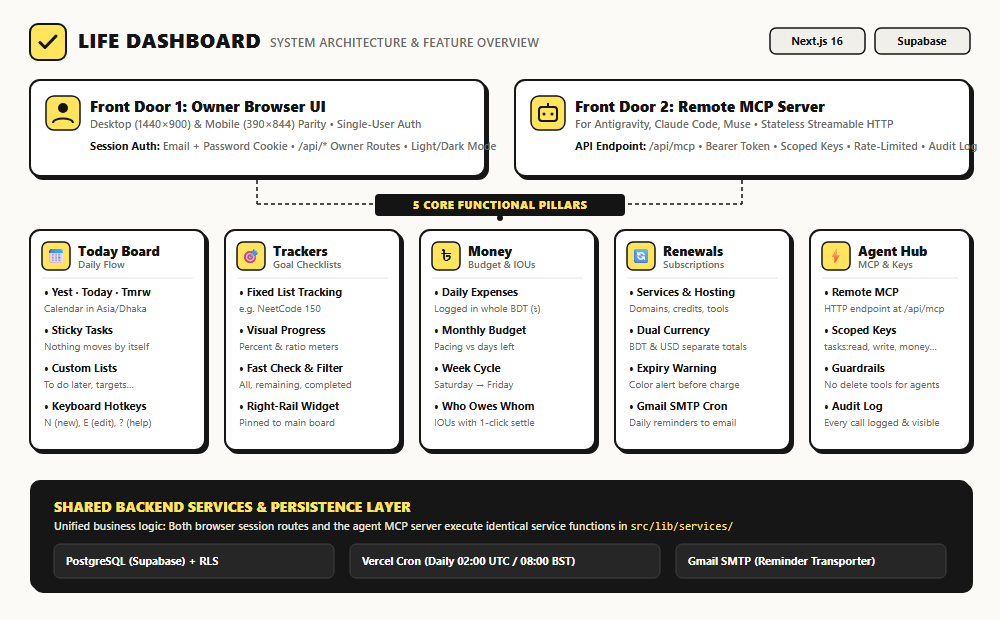
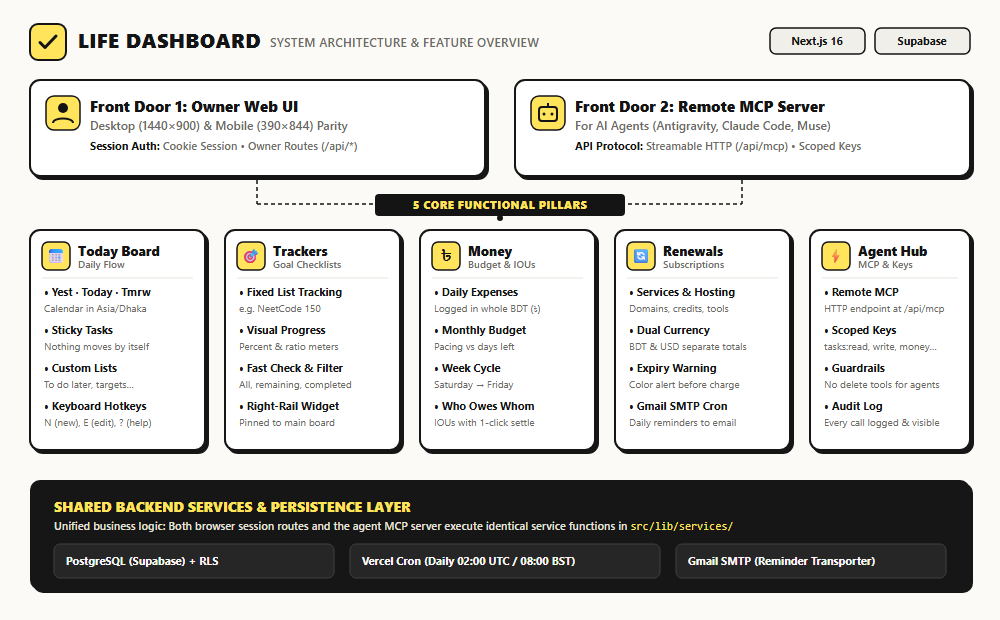
docs: rewrite README in first-person voice, remove mermaid diagram, fix SVG text overflow

Changed region(s): [[0.093, 0.1532, 0.496, 0.2452], [0.558, 0.1839, 0.992, 0.2452]]

diff --git a/README.md b/README.md
@@ -3,7 +3,7 @@
     <img src="public/icon-192.png" width="80" height="80" alt="Life Dashboard Logo" style="border-radius: 18px;" />
   </a>
   <h1>Life Dashboard</h1>
-  <p><strong>A private, single-user command center for daily tasks, trackers, small debts, and renewals — built for Muhammad Rony and his AI agents.</strong></p>
+  <p><strong>My private command center for daily tasks, trackers, small debts, and renewals — built for me and my AI agents.</strong></p>
   <p>
     <a href="https://life.rhrony05.me"><strong>🌐 life.rhrony05.me</strong></a>
     &nbsp;•&nbsp;
@@ -29,103 +29,73 @@
   <img src="docs/architecture-overview.svg" alt="Life Dashboard Architecture & Features Overview" width="100%" />
 </div>
 
-### System Flow Diagram
+---
 
-```mermaid
-flowchart TD
-  classDef userNode fill:#FFE45C,stroke:#141414,stroke-width:2px,color:#141414;
-  classDef agentNode fill:#FFE45C,stroke:#141414,stroke-width:2px,color:#141414;
-  classDef appNode fill:#FFFFFF,stroke:#141414,stroke-width:2px,color:#141414;
-  classDef dbNode fill:#141414,stroke:#141414,stroke-width:2px,color:#FBFAF6;
+## Why I Built This
 
-  User["👤 Muhammad Rony (Browser)"]:::userNode
-  Agent["🤖 AI Agents (Antigravity / Claude / Muse)"]:::agentNode
+I am currently in my final year of university, studying computer science, picking up freelance client projects, and coding almost daily with autonomous AI agents. 
 
-  subgraph FrontDoors ["Two Front Doors"]
-    UI["Owner Web App\nDesktop 1440×900 · Mobile 390×844\nCookie Session Auth (/api/*)"]:::appNode
-    MCP["Remote MCP Server\nStateless Streamable HTTP (/api/mcp)\nBearer Token · Scoped · Rate Limited"]:::appNode
-  end
+Before building **Life Dashboard**, my daily life was basically running on pure adrenaline and chaos:
+- **My daily tasks lived purely in my head:** I would tell myself *"I'll definitely remember to submit that lab report and reply to that client by 5 PM"*, only to experience a full-blown panic attack at 11:58 PM.
+- **My small debts lived in messy phone notes:** Whenever my friends and I had lunch, small borrowings and lendings (*"who owes whom"*) ended up scattered across phone notes and random WhatsApp messages. Half the time, I forgot who owed me money or felt awkward calculating it.
+- **My renewal dates lived nowhere at all:** Domains, cloud servers, software subscriptions, and student trial credits would expire silently — or worse, suddenly hit my credit card with surprise renewal charges because I forgot to cancel a trial.
+- **My AI pair-programmers were working in the dark:** I collaborate daily with autonomous coding agents (Claude Code, Antigravity, Muse). Yet none of them had any idea what I was actually supposed to work on today. I was spending half my time acting as their unpaid human secretary, manually copy-pasting tasks between chats.
 
-  subgraph CoreLogic ["Shared Service Layer (src/lib/services/)"]
-    TasksSvc["Board & Tasks\nYesterday · Today · Tomorrow · Lists"]:::appNode
-    TrackersSvc["Trackers\nChecklists · NeetCode 150 · Progress"]:::appNode
-    MoneySvc["Money\nDaily Budget · Saturday→Friday · IOUs"]:::appNode
-    RenewalsSvc["Renewals\nBDT / USD · Expiry Alerts · Gmail Cron"]:::appNode
-    KeysSvc["API Keys & Audit\nHashed Keys · Scopes · Audit Log"]:::appNode
-  end
+> **The realization:**  
+> My brain simply doesn't have enough RAM to remember Dijkstra's algorithm, keep track of who owes me 200 taka for campus biryani, **and** remember which free trial is going to charge my card tomorrow morning.  
+> 
+> If AI agents are supposedly going to take over software engineering anyway, the very least they can do right now is help me do my chores and keep my day organized.
 
-  subgraph Persistence ["Persistence & External Services"]
-    DB[("Supabase PostgreSQL\nRow-Level Security (RLS)")]:::dbNode
-    Cron["Vercel Cron (Daily 02:00 UTC)"]:::appNode
-    Gmail["Gmail SMTP (Email Alerts)"]:::appNode
-  end
-
-  User --> UI
-  Agent --> MCP
-  UI --> TasksSvc & TrackersSvc & MoneySvc & RenewalsSvc & KeysSvc
-  MCP --> TasksSvc & TrackersSvc & MoneySvc & RenewalsSvc & KeysSvc
-  TasksSvc & TrackersSvc & MoneySvc & RenewalsSvc & KeysSvc --> DB
-  Cron --> RenewalsSvc
-  RenewalsSvc --> Gmail
-```
+So I decided to build **Life Dashboard** as my personal daily command center.
 
 ---
 
-## The Problem & The Solution
+## How It Works: Two Front Doors, One Service Layer
 
-### The Problem
-During his final year at university and freelance work, Muhammad Rony's day lived scattered across disconnected apps:
-- **Tasks lived in his head:** Deadlines were easily missed or caused constant mental fatigue.
-- **Debts lived in phone notes:** Small balances borrowed or lent to friends ("who owes whom") were forgotten or awkward to calculate.
-- **Renewals lived nowhere:** Domain expirations, server hosting bills, and student credit deadlines arrived unexpectedly, charging subscriptions without warning.
-- **AI agents worked in silos:** AI pair-programmers (Antigravity, Claude Code, Muse) could not inspect what Rony was working on, add tasks, or check upcoming renewal deadlines without manual copy-pasting.
+I wanted an app that is fast, beautiful, and accessible to both me and my agents without cutting corners:
 
-### The Solution
-**Life Dashboard** is a private personal dashboard paired with an **agent-native MCP engine**:
-- **Swiss Ink Design System:** Soft neo-brutalist aesthetic with crisp borders, warm yellow accents (`#FFE45C`), paper background (`#FBFAF6`), and full light/dark mode support.
-- **Strict Parity:** 100% desktop (1440×900) and mobile (390×844) feature parity without horizontal drift or layout leakage.
-- **Two Front Doors, One Service Layer:** Rony uses the browser web UI; AI agents connect to the `/api/mcp` endpoint via the Model Context Protocol. Both fronts call the exact same backend service functions in `src/lib/services/`.
-- **Zero AI Latency & Complete Control:** The app does not call external LLMs internally. The agents connecting from the outside *are* the AI.
+1. **Front Door 1 (For Me):** A responsive web app with a custom **Swiss Ink** design system (soft neo-brutalism, warm `#FFE45C` yellow accent, crisp borders, and dark mode toggle). Built with strict parity: 100% of features work identically on my desktop monitor (1440×900) and on my phone (390×844) while on the go.
+2. **Front Door 2 (For My AI Agents):** A remote, stateless Streamable HTTP **Model Context Protocol (MCP)** server running at `/api/mcp`. My agents connect using hashed, scoped API keys (`tasks:read`, `tasks:write`, `trackers:*`, `money:*`, `renewals:*`).
+3. **Unified Backend Services:** Both front doors call the exact same backend service functions in `src/lib/services/`. There is no separate or outdated public API — whenever an agent updates my board or adds an expense, it runs the exact same code my browser runs.
+4. **Zero AI Latency & Guardrails:** The web app itself doesn't call an LLM on every page load (keeping it instantaneous and free of API bill spikes). The agents connecting from outside *are* the AI. And for safety, agents are given **no delete tools** — only I can delete my data.
 
 ---
 
-## What You Can Do
+## What I Can Do
 
 ### 1. Yesterday · Today · Tomorrow Board
-A focused daily board organized around real human working habits:
-- **Calendar Days in `Asia/Dhaka`:** Natural day transitions anchored to local time.
-- **Sticky Tasks:** Tasks stay on their assigned day until explicitly moved or marked done. Nothing disappears automatically.
-- **Older Unfinished Tasks:** Unfinished tasks from previous days stay visible under Yesterday in an expandable badge with one-click "Move all to today".
-- **Custom Lists:** Create undated target lists ("To do later", "This week's targets", "Reading list") that live alongside the board.
-- **Keyboard Navigation:** Rapid task management via `N` (new task), `E` (edit), `X` (toggle done), `J`/`K` (navigate), and `?` (shortcut cheatsheet).
-- **Right Rail:** Instant visibility into quick links, upcoming renewals (next 14 days), net debt balances, and tracker milestones.
+My central daily workspace:
+- **Calendar Days in `Asia/Dhaka`:** Day transitions and dates are permanently anchored to my local timezone.
+- **Sticky Tasks:** Tasks stay on their assigned day until I (or one of my agents) check them off or move them. Nothing vanishes automatically overnight.
+- **Older Unfinished Tasks:** Any unfinished tasks from previous days remain clearly visible under Yesterday with a 1-click *"Move all to today"* button.
+- **Custom Lists:** I keep undated target lists ("To do later", "This week's targets", "Reading list") right beside my daily board.
+- **Keyboard Shortcuts:** Fast management with `N` (new task), `E` (edit), `X` (toggle done), `J`/`K` (navigate), and `?` (shortcuts cheat-sheet).
+- **Right Rail Widget:** Immediate glance at my quick links, upcoming renewals (next 14 days), net debt balance, and tracker progress.
 
 ### 2. Goal Trackers
-Keep long-running technical lists and personal curricula organized:
-- **Discrete Progress Checklists:** Built for lists with fixed goals (e.g. NeetCode 150, System Design topics, Book trackers).
-- **Progress Metrics:** Visual percentage and completion ratios (e.g., `42 / 150 completed`).
-- **Filter & Search:** Filter by active, completed, or remaining items with immediate client-side responsiveness.
+For structured, long-term technical learning:
+- **Fixed Checklist Tracking:** Tailored for discrete goals like completing the **NeetCode 150**, system design patterns, or books.
+- **Visual Progress:** Real-time percentage meters and ratio completion counts (e.g. `42 / 150 completed`).
+- **Instant Filtering:** Filter between all, remaining, and completed items without full page reloads.
 
 ### 3. Money & IOUs (Whole BDT)
-Track daily expenses and personal debts in taka (`৳`) with zero decimal noise:
-- **Monthly Budget Pacing:** Visual progress bar tracking spending against monthly limits and days remaining.
-- **Weekly Cycles:** Budgeting weeks aligned from **Saturday to Friday** matching Bangladeshi working and weekend schedules.
-- **Who Owes Whom (IOUs):** Log lent and borrowed amounts with names, notes, and 1-click settlement.
-- **Net Balance Calculation:** Instantly see total money you are owed vs. money you owe.
+Tracking daily expenses and personal debts in taka (`৳`) without confusing decimal noise:
+- **Monthly Budget Pacing:** A visual pacing bar showing how much I have spent versus how many days remain in the month.
+- **Saturday → Friday Cycle:** Budgeting weeks aligned with Bangladesh's working and weekend rhythm.
+- **Who Owes Whom (IOUs):** Quick logging of who lent or borrowed what, with 1-click settlement and net balance calculation.
 
 ### 4. Renewals & Subscriptions (BDT & USD)
-Never get hit by surprise subscription renewals or expired student credits:
-- **Multi-Currency:** Support for subscriptions in **BDT or USD** with separate totals (no misleading automatic conversions).
-- **Billing Cycles:** Monthly, annual, or one-off renewal tracking.
-- **Automated Daily Reminder Cron:** Vercel Cron triggers `/api/cron/daily` at 08:00 BST (02:00 UTC), sending warning emails via **Gmail SMTP** 7 days, 3 days, and 1 day before renewal.
+No more surprise credit card charges:
+- **Multi-Currency:** Keeps subscriptions in their native currency (**BDT or USD**) with separate totals — no misleading daily exchange rate conversions.
+- **Expiry Warnings:** Clear visual color warnings as renewal dates approach.
+- **Automated Daily Reminder Emails:** A Vercel Cron runs daily at 08:00 BST (02:00 UTC) to check renewals and sends reminder emails directly to my Gmail inbox via **Gmail SMTP** (7 days, 3 days, and 1 day before charge).
 
-### 5. Remote MCP Server & AI Agent Hub
-Enable autonomous AI assistants (Antigravity, Claude Code, Muse) to collaborate directly:
-- **Streamable HTTP MCP Endpoint:** Remote Model Context Protocol server running at `/api/mcp`.
-- **Scoped & Revocable API Keys:** Keys are hashed with SHA-256 (only shown once at creation) with granular permissions (`tasks:read`, `tasks:write`, `trackers:*`, `money:*`, `renewals:*`).
-- **Agent Guardrails:** Agents get read, create, and update capabilities, but **no delete tools**. Destructive actions remain human-only.
-- **Immutable Audit Logging:** Every agent request, tool name, timestamp, and response status is recorded in an audit log visible in the Settings dashboard.
-- **Rate Limiting:** Built-in protection limiting keys to 30 requests per minute and 1,000 requests per day.
+### 5. Agent Hub & Remote MCP Server
+Where I pair-program with my AI agents:
+- **Remote Streamable HTTP Endpoint:** Live at `/api/mcp`.
+- **Hashed, Scoped API Keys:** Every agent has its own key with granular permissions. Keys are SHA-256 hashed and shown only once upon creation.
+- **Immutable Audit Logging:** Every single agent tool invocation, timestamp, parameter, and response code is logged and visible in my Settings dashboard.
+- **Rate Limiting:** Built-in rate limits (30 requests/min, 1,000 requests/day) prevent rogue agent loops from exhausting database resources.
 
 ---
 
@@ -137,7 +107,7 @@ If you want to run your own instance of Life Dashboard:
 - **Node.js** ≥ 20
 - **npm** ≥ 10
 - **Git**
-- A **[Supabase](https://supabase.com/)** PostgreSQL database
+- A free **[Supabase](https://supabase.com/)** PostgreSQL database
 - A **Gmail App Password** (for daily renewal reminder emails)
 
 ### 2. Clone and Install
@@ -194,7 +164,7 @@ E2E_PASSWORD=<e2e-user-password>
 2. Run the migrations in sequence from `supabase/migrations/`:
    - `20261102215000_life_init.sql` (Tables, columns, indexes, RLS policies)
    - `20261102215300_cover_foreign_keys.sql` (Composite indexes and performance constraints)
-3. Confirm that the tables are created: `tasks`, `task_lists`, `trackers`, `tracker_items`, `expenses`, `ious`, `renewals`, `quick_links`, `api_keys`, `audit_logs`.
+3. Confirm the tables are created: `tasks`, `task_lists`, `trackers`, `tracker_items`, `expenses`, `ious`, `renewals`, `quick_links`, `api_keys`, `audit_logs`.
 
 ### 5. Run Locally
 ```bash
